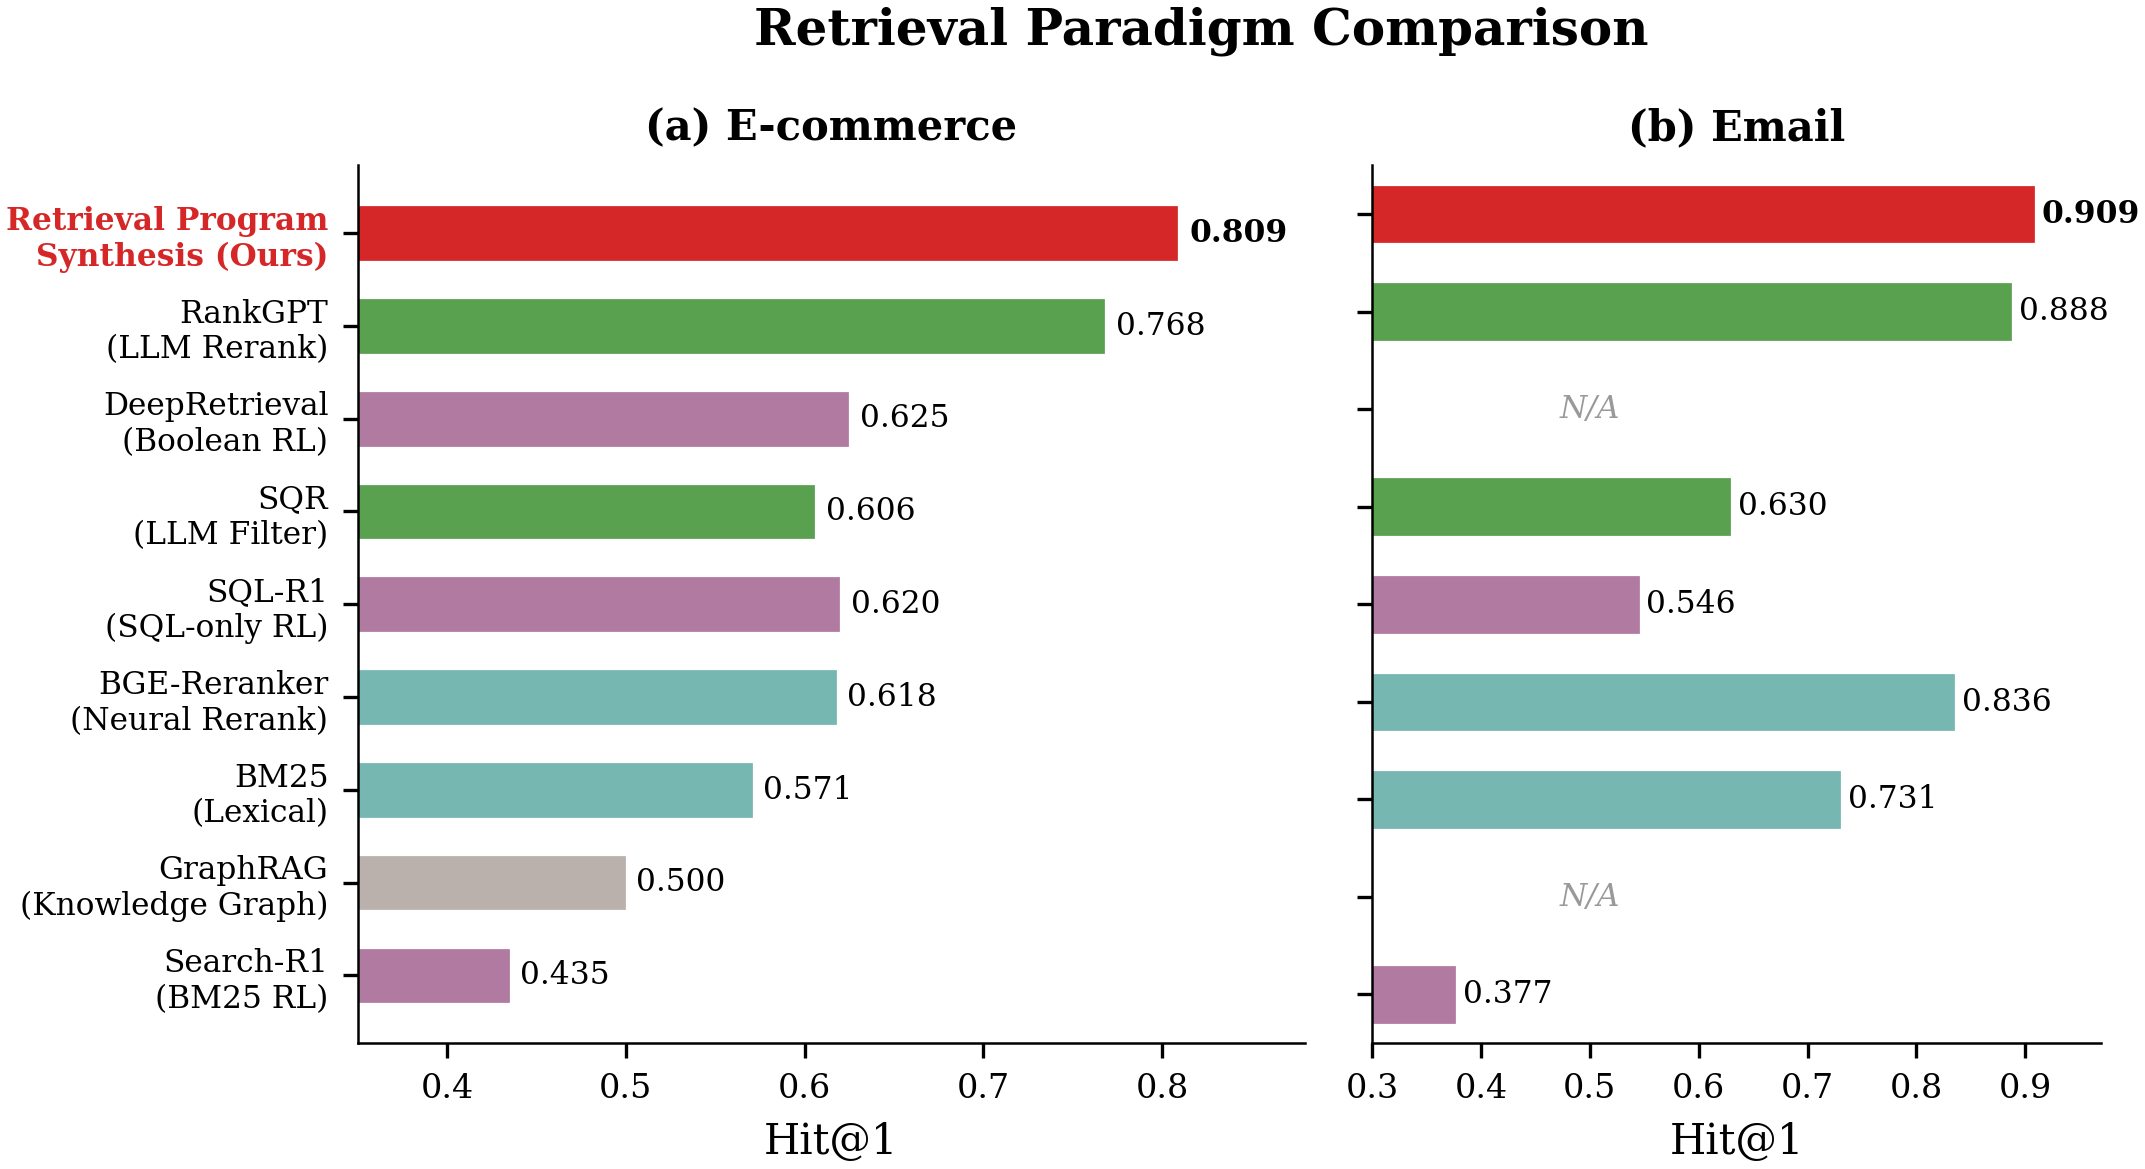
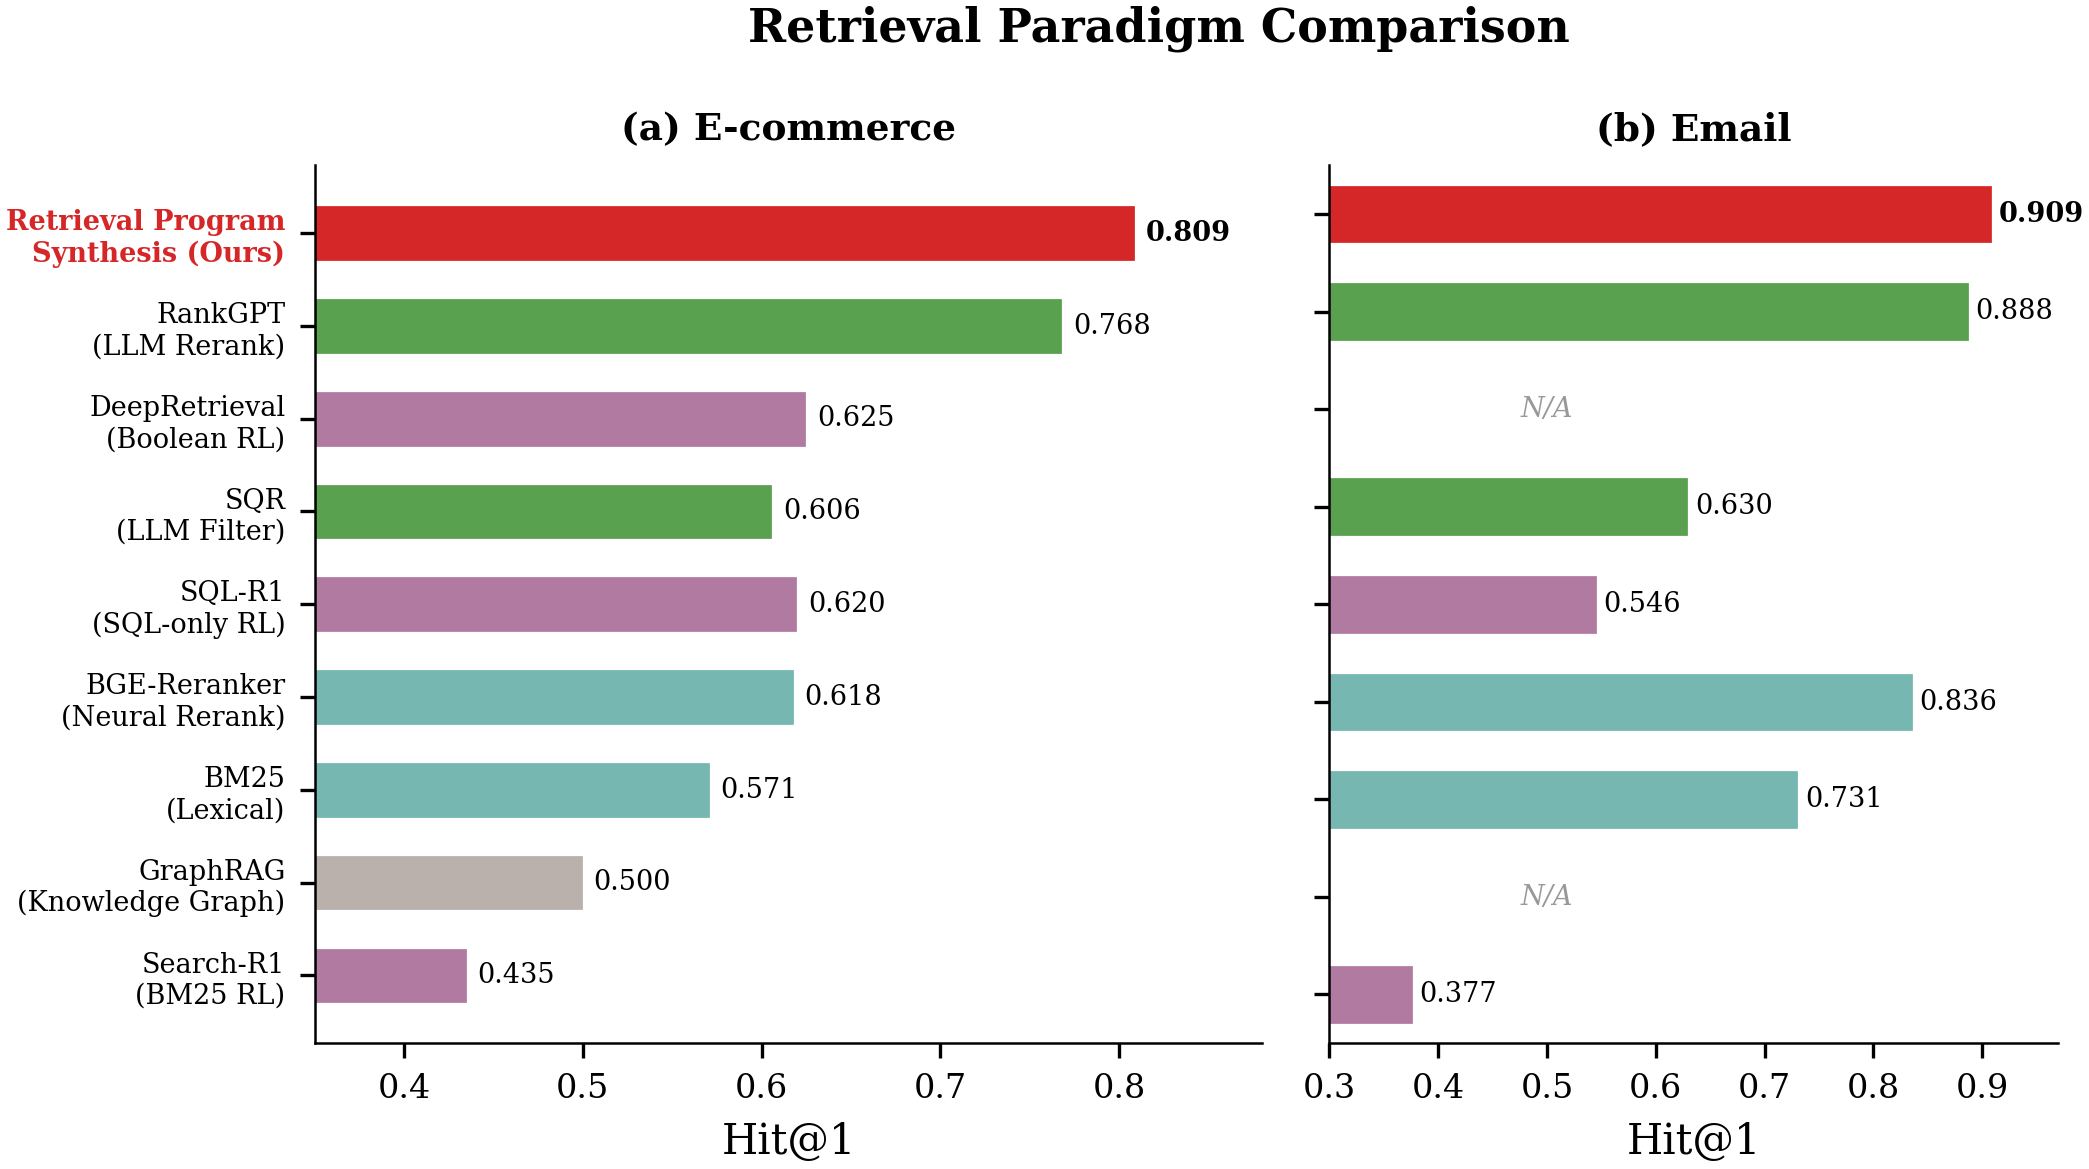
Increase Fig E9 error analysis font size and revert Fig5 paradigm comparison
- E9: x-axis labels 5→5.5/6, subtitles 9→10, suptitle 11→12, figure 7.0→8.5
- Paradigm comparison: revert font sizes back to original (was changed by mistake)

diff --git a/figures/paper/generate_all_figures.py b/figures/paper/generate_all_figures.py
@@ -398,13 +398,13 @@ def fig_paradigm_comparison():
     bars1 = ax1.barh(y, ecom, height=h, color=colors_bar, edgecolor='white', linewidth=0.3)
     for i, (bar, val) in enumerate(zip(bars1, ecom)):
         fw = 'bold' if i == 0 else 'normal'
-        ax1.text(val + 0.006, i, f'{val:.3f}', va='center', fontsize=7.5, fontweight=fw)
+        ax1.text(val + 0.006, i, f'{val:.3f}', va='center', fontsize=6.5, fontweight=fw)
     ax1.set_yticks(y)
-    ax1.set_yticklabels(methods, fontsize=7.5)
+    ax1.set_yticklabels(methods, fontsize=6.5)
     ax1.set_xlabel('Hit@1')
     ax1.set_xlim(0.35, 0.88)
     ax1.invert_yaxis()
-    ax1.set_title('(a) E-commerce', fontsize=10, fontweight='bold')
+    ax1.set_title('(a) E-commerce', fontsize=9, fontweight='bold')
     ax1.get_yticklabels()[0].set_fontweight('bold')
     ax1.get_yticklabels()[0].set_color(OURS_COLOR)
 
@@ -419,20 +419,20 @@ def fig_paradigm_comparison():
     for bar, val in zip(bars2, email_vals):
         ypos = bar.get_y() + bar.get_height() / 2
         fw = 'bold' if val == max(email_vals) else 'normal'
-        ax2.text(val + 0.006, ypos, f'{val:.3f}', va='center', fontsize=7.5, fontweight=fw)
+        ax2.text(val + 0.006, ypos, f'{val:.3f}', va='center', fontsize=6.5, fontweight=fw)
 
     for i, val in enumerate(email):
         if val is None:
-            ax2.text(0.50, y[i], 'N/A', va='center', ha='center', fontsize=7.5, color='#999999', fontstyle='italic')
+            ax2.text(0.50, y[i], 'N/A', va='center', ha='center', fontsize=6.5, color='#999999', fontstyle='italic')
 
     ax2.set_yticks(y)
     ax2.set_yticklabels([])
     ax2.set_xlabel('Hit@1')
     ax2.set_xlim(0.30, 0.97)
     ax2.set_ylim(len(methods) - 0.5, -0.5)
-    ax2.set_title('(b) Email', fontsize=10, fontweight='bold')
+    ax2.set_title('(b) Email', fontsize=9, fontweight='bold')
 
-    fig.suptitle('Retrieval Paradigm Comparison', fontsize=12, fontweight='bold', y=1.02)
+    fig.suptitle('Retrieval Paradigm Comparison', fontsize=11, fontweight='bold', y=1.02)
     fig.tight_layout()
     save(fig, 'fig_paradigm_comparison.pdf')
 
@@ -697,7 +697,7 @@ def fig_e8_model_scaling():
 # Fig 12: E9 — Error Analysis (from 实验结果分析报告)
 # ═══════════════════════════════════════════════════════════════════════════════
 def fig_e9_error_analysis():
-    fig, (ax1, ax2) = plt.subplots(1, 2, figsize=(7.0, 2.8))
+    fig, (ax1, ax2) = plt.subplots(1, 2, figsize=(8.5, 3.0))
 
     c_success = '#59A14F'
     c_exec_fail = '#E15759'
@@ -714,19 +714,19 @@ def fig_e9_error_analysis():
     format_fail_ec = [(t-f)/t for t, f in zip(total_ec, format_ok_ec)]
 
     x = np.arange(len(methods_ec))
-    ax1.bar(x, success_ec, 0.65, label='Success', color=c_success, edgecolor='white', linewidth=0.3)
-    ax1.bar(x, exec_fail_ec, 0.65, bottom=success_ec, label='Exec Fail', color=c_exec_fail, edgecolor='white', linewidth=0.3)
+    ax1.bar(x, success_ec, 0.58, label='Success', color=c_success, edgecolor='white', linewidth=0.3)
+    ax1.bar(x, exec_fail_ec, 0.58, bottom=success_ec, label='Exec Fail', color=c_exec_fail, edgecolor='white', linewidth=0.3)
     bottom2 = [s+e for s, e in zip(success_ec, exec_fail_ec)]
-    ax1.bar(x, format_fail_ec, 0.65, bottom=bottom2, label='Format Fail', color=c_format_fail, edgecolor='white', linewidth=0.3)
+    ax1.bar(x, format_fail_ec, 0.58, bottom=bottom2, label='Format Fail', color=c_format_fail, edgecolor='white', linewidth=0.3)
 
     for i, s in enumerate(success_ec):
         ax1.text(i, s/2, f'{s:.1%}', ha='center', va='center', fontsize=5, fontweight='bold', color='white')
 
     ax1.set_ylabel('Proportion')
     ax1.set_xticks(x)
-    ax1.set_xticklabels(methods_ec, fontsize=5, rotation=30, ha='right')
+    ax1.set_xticklabels(methods_ec, fontsize=5.5, rotation=30, ha='right')
     ax1.set_ylim(0, 1.05)
-    ax1.set_title('(a) E-commerce', fontsize=9, fontweight='bold')
+    ax1.set_title('(a) E-commerce', fontsize=10, fontweight='bold')
 
     # Email (doc E9 table)
     methods_em = ['Base\n(4B)', 'SFT\n(4B)', 'GRPO\n(4B)', 'DAPO\n(4B)', 'GPT-5.4', 'GPT-5.5', 'Opus 4.7']
@@ -739,25 +739,25 @@ def fig_e9_error_analysis():
     format_fail_em = [(t-f)/t for t, f in zip(total_em, format_ok_em)]
 
     x2 = np.arange(len(methods_em))
-    ax2.bar(x2, success_em, 0.65, label='Success', color=c_success, edgecolor='white', linewidth=0.3)
-    ax2.bar(x2, exec_fail_em, 0.65, bottom=success_em, label='Exec Fail', color=c_exec_fail, edgecolor='white', linewidth=0.3)
+    ax2.bar(x2, success_em, 0.58, label='Success', color=c_success, edgecolor='white', linewidth=0.3)
+    ax2.bar(x2, exec_fail_em, 0.58, bottom=success_em, label='Exec Fail', color=c_exec_fail, edgecolor='white', linewidth=0.3)
     bottom2e = [s+e for s, e in zip(success_em, exec_fail_em)]
-    ax2.bar(x2, format_fail_em, 0.65, bottom=bottom2e, label='Format Fail', color=c_format_fail, edgecolor='white', linewidth=0.3)
+    ax2.bar(x2, format_fail_em, 0.58, bottom=bottom2e, label='Format Fail', color=c_format_fail, edgecolor='white', linewidth=0.3)
 
     for i, s in enumerate(success_em):
         ax2.text(i, s/2, f'{s:.1%}', ha='center', va='center', fontsize=5.5, fontweight='bold', color='white')
 
     ax2.set_ylabel('Proportion')
     ax2.set_xticks(x2)
-    ax2.set_xticklabels(methods_em, fontsize=5.5, rotation=25, ha='right')
+    ax2.set_xticklabels(methods_em, fontsize=6, rotation=25, ha='right')
     ax2.set_ylim(0, 1.05)
-    ax2.set_title('(b) Email', fontsize=9, fontweight='bold')
+    ax2.set_title('(b) Email', fontsize=10, fontweight='bold')
 
     handles, labels = ax1.get_legend_handles_labels()
     fig.legend(handles, labels, loc='upper center', bbox_to_anchor=(0.5, 1.06),
                ncol=3, frameon=False, fontsize=7.5)
 
-    fig.suptitle('DSL Generation Error Analysis', fontsize=11, fontweight='bold', y=1.12)
+    fig.suptitle('DSL Generation Error Analysis', fontsize=12, fontweight='bold', y=1.12)
     fig.tight_layout()
     save(fig, 'fig_e9_error_analysis.pdf')
 
